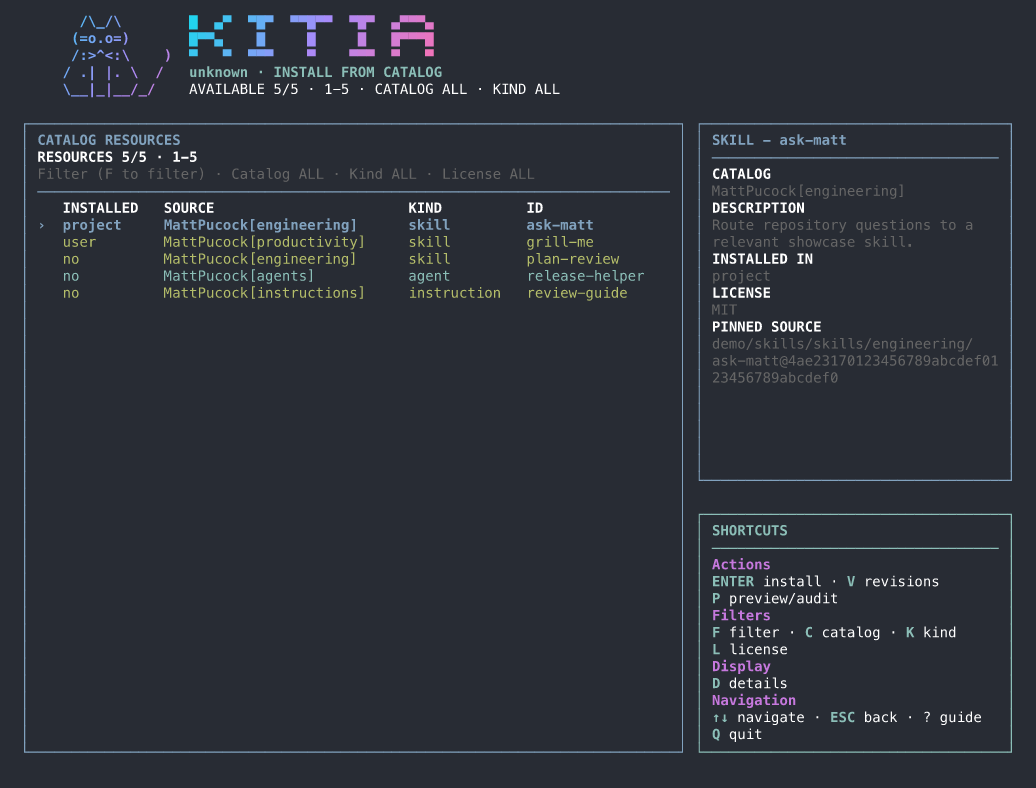
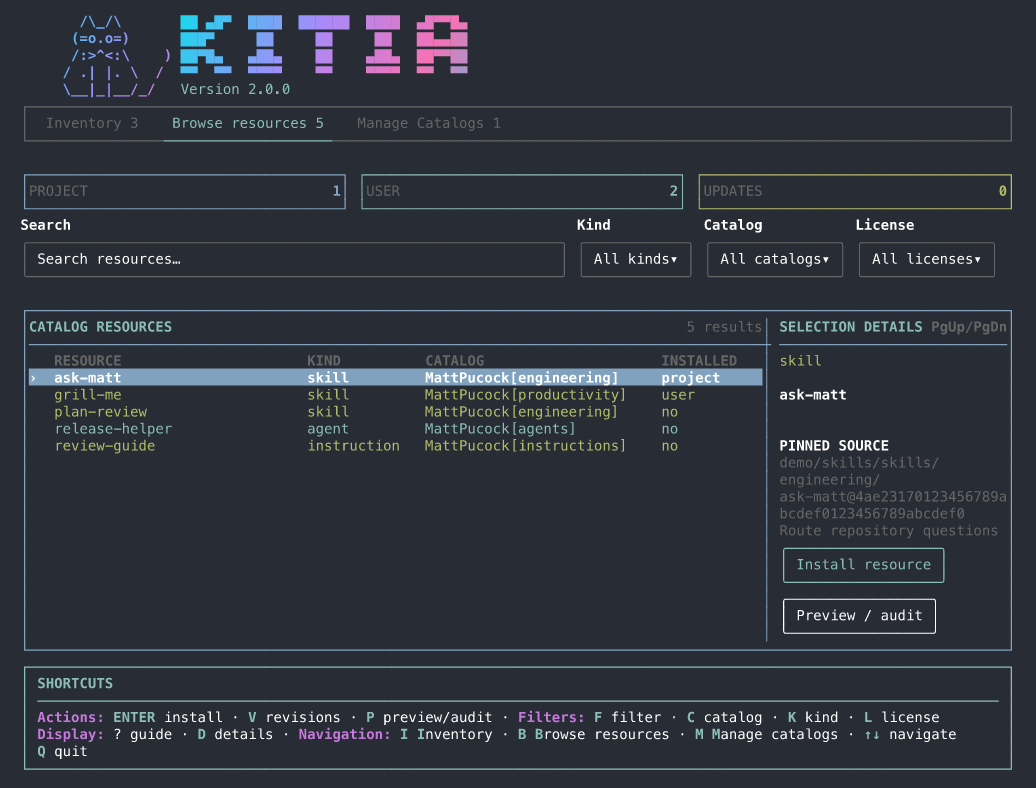
feat: update dashboard screenshots generation and improve deployment error handling

diff --git a/web/scripts/screenshots-generator/update-site-screenshots-termless.js b/web/scripts/screenshots-generator/update-site-screenshots-termless.js
@@ -6,6 +6,7 @@ const sharp = require('sharp');
 const fs = require('node:fs/promises');
 const os = require('node:os');
 const path = require('node:path');
+const { version: kitiaVersion } = require('@grasdouble/kitia/package.json');
 const { assertTermlessRuntime } = require('./termless-preflight.js');
 const {
   closeShowcaseDashboard,
@@ -43,8 +44,8 @@ Requires Node.js >=23.6, a built checkout, @resvg/resvg-js, and sharp. The
 command uses the shared deterministic showcase fixture and writes a separate
 lossless WebP pair. It promotes to *-termless.webp only when the parsed xterm
 screen proves both complete frames; otherwise it writes review-only
-*-termless-draft.webp files and reports exactly which cells were missing. The
-original captures are untouched.`;
+*-termless-draft.webp files, reports what was missing, and exits with an error.
+The published captures are untouched on failure.`;
 
 class CaptureError extends Error {}
 
@@ -211,7 +212,7 @@ async function main(args) {
   const temporaryDirectory = await fs.mkdtemp(path.join(os.tmpdir(), 'kitia-termless-capture-'));
   let session;
   try {
-    session = await launchShowcaseDashboard(temporaryDirectory);
+    session = await launchShowcaseDashboard(temporaryDirectory, { versionLabel: kitiaVersion });
     const staged = captures.map(({ png }) => path.join(temporaryDirectory, png));
 
     const inventoryAnsi = await waitForInkOutput(session, 'B Browse resources');
@@ -233,7 +234,13 @@ async function main(args) {
       optimized.map((file, index) => encodeWebp(staged[index], file, captures[index].name)),
     );
 
-    const missing = [...missingInventory(inventoryGrid), ...missingCatalog(catalogGrid)];
+    const missingVersion = (name, grid) =>
+      screenRows(grid).some((line) => line.endsWith(`Version ${kitiaVersion}`))
+        ? []
+        : [`${name} header Version ${kitiaVersion}`];
+    const inventoryMissing = [...missingInventory(inventoryGrid), ...missingVersion('Inventory', inventoryGrid)];
+    const catalogMissing = [...missingCatalog(catalogGrid), ...missingVersion('Browse', catalogGrid)];
+    const missing = [...inventoryMissing, ...catalogMissing];
     const complete = missing.length === 0;
     await fs.mkdir(assets, { recursive: true });
     const destinations = captures.map(({ output, draft }) => path.join(assets, complete ? output : draft));
@@ -248,18 +255,15 @@ async function main(args) {
       );
     }
     console.log(
-      `Termless xterm projection: inventory ${missingInventory(inventoryGrid).length ? 'incomplete' : 'complete'}; catalog ${missingCatalog(catalogGrid).length ? 'incomplete' : 'complete'}.`,
+      `Termless xterm projection: inventory ${inventoryMissing.length ? 'incomplete' : 'complete'}; catalog ${catalogMissing.length ? 'incomplete' : 'complete'}.`,
     );
     console.log(`Ink stream evidence: inventory ${inventoryAnsi.length} chars; catalog ${catalogAnsi.length} chars.`);
-    if (missing.length) {
-      console.warn(
-        `Not promoting Termless screenshots because the parsed xterm grid is missing: ${missing.join('; ')}`,
-      );
-    } else {
-      console.log(
-        `Rendered with @resvg/resvg-js using fixed ${screenshotViewport.width}×${screenshotViewport.height} cell metrics.`,
-      );
+    if (!complete) {
+      throw new CaptureError(`Incomplete Termless screenshots; existing captures kept: ${missing.join('; ')}`);
     }
+    console.log(
+      `Rendered with @resvg/resvg-js using fixed ${screenshotViewport.width}×${screenshotViewport.height} cell metrics.`,
+    );
   } catch (error) {
     console.error(`Error: ${error.message}`);
     process.exitCode = 1;

diff --git a/web/scripts/screenshots-generator/site-showcase-terminal.js b/web/scripts/screenshots-generator/site-showcase-terminal.js
@@ -173,6 +173,7 @@ async function launchShowcaseDashboard(
     listSourceVersionsOverride,
     catalogResourcesOverride,
     inventoryRunOverride,
+    versionLabel,
   } = {},
 ) {
   assertTermlessRuntime();
@@ -247,12 +248,19 @@ async function launchShowcaseDashboard(
             dashboardOptions,
           })
       : execute;
-    done = dashboard.runDashboard(rows, input, output, installed.errors, {
-      catalogResources,
-      userCatalogs,
-      execute: executeOverride || runAction,
-      listSourceVersions: listSourceVersionsOverride,
-    });
+    done = dashboard.runDashboard(
+      rows,
+      input,
+      output,
+      installed.errors,
+      {
+        catalogResources,
+        userCatalogs,
+        execute: executeOverride || runAction,
+        listSourceVersions: listSourceVersionsOverride,
+      },
+      { versionLabel },
+    );
     done.catch(() => {});
     const session = {
       fixture,

diff --git a/CONTRIBUTING.md b/CONTRIBUTING.md
@@ -29,6 +29,12 @@ pnpm --filter @grasdouble/kitia-web run test:termless
 pnpm --filter @grasdouble/kitia-web run screenshots:update:termless
 ```
 
+GitHub Pages regenerates the dashboard screenshots after installing dependencies
+and before building the site. The generator uses the checked-out package version.
+If either capture is incomplete, it writes review-only drafts, leaves the existing
+images untouched, and exits with an error so deployment stops. A successful
+deployment bundles the regenerated images without committing them back to Git.
+
 The private workspace root (`kitia-workspace`) owns orchestration scripts; the published CLI package is `terminal/` (`@grasdouble/kitia`), and the private website package is `web/` (`@grasdouble/kitia-web`). Use `pnpm build` for the workspace build, or target a package directly with `pnpm --filter @grasdouble/kitia run build` or `pnpm --filter @grasdouble/kitia-web run build`. CLI output goes to `terminal/dist/` and website output to `web/dist/`. The website consumes the terminal workspace's live source and changelog, so its build and development server do not require a terminal build first.
 
 Terminal TypeScript uses static `import` and `export`. NodeNext keeps the entry point and CLI modules as CommonJS `.js` output and emits ESM `.mjs` for `.mts` sources where needed. Use `import()` at intentional lazy boundaries, such as loading the command graph only when running the regular CLI.

diff --git a/.changeset/plenty-lilies-serve.md b/.changeset/plenty-lilies-serve.md
@@ -5,3 +5,7 @@
 Run the shared terminal dashboard in the browser with isolated sample operations, preserve the earlier web-style playground at /demo-keep, and add a skill for maintaining TUI/demo parity. Reuse the TUI color roles and one ANSI palette for screenshots and xterm instead of a browser-specific semantic theme. Synchronize the Termless removal regression with actual handler dispatch instead of the loading frame.
 
 Fix a circular dependency in Vite's development prebundle so the website and terminal demo initialize successfully.
+
+Refresh the website's Inventory and Browse screenshots with the current dashboard tabs, shortcuts, and package version.
+
+Regenerate both screenshots during the GitHub Pages build and stop deployment if either capture is incomplete.
